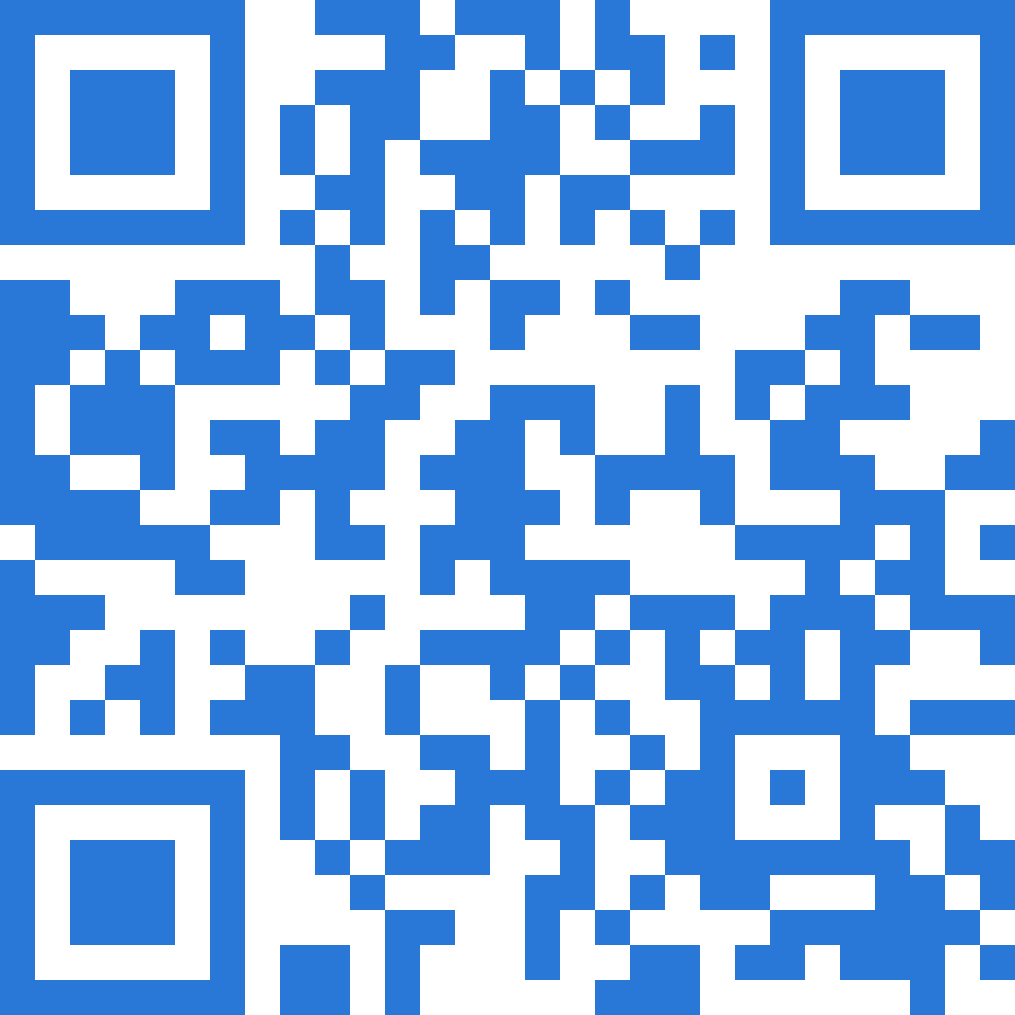
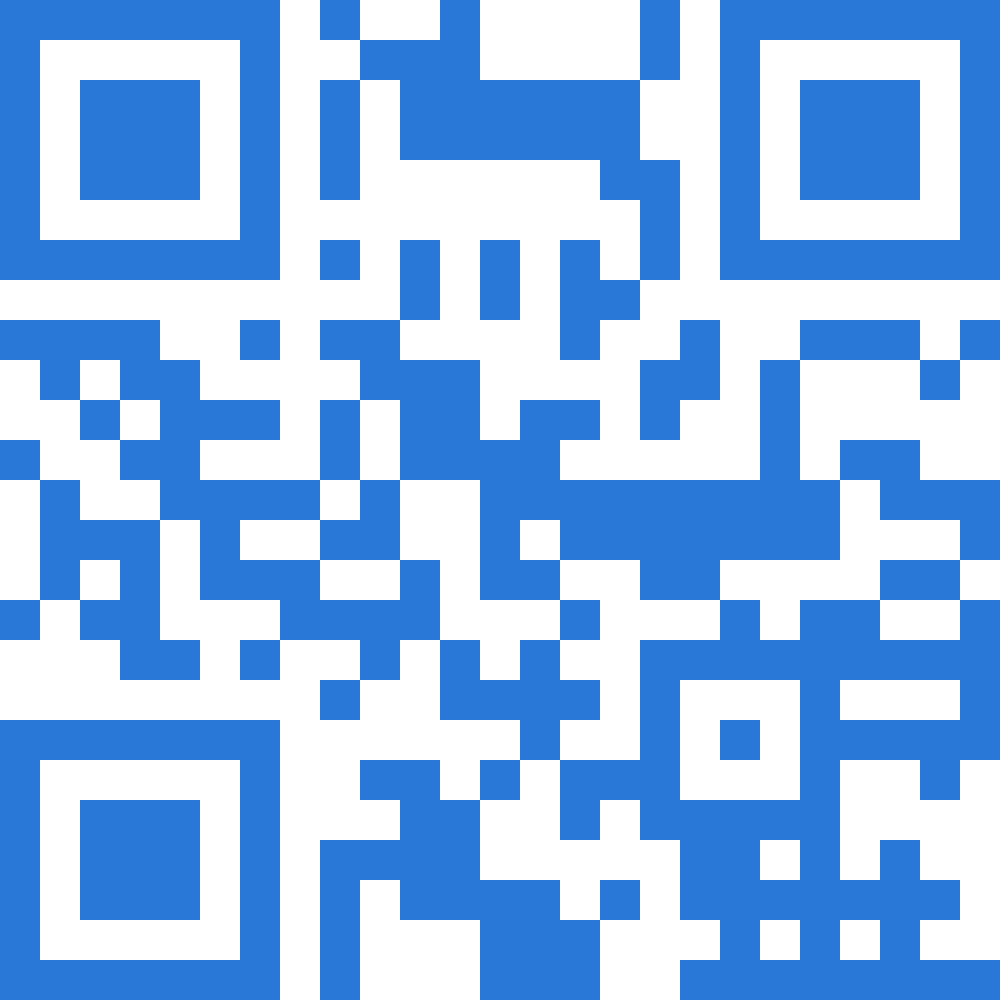
change domain name

diff --git a/index.html b/index.html
@@ -7,7 +7,7 @@
   <meta name="viewport" content="width=device-width, initial-scale=1.0">
   <meta name="color-scheme" content="dark light">
   <meta name="theme-color" content="#2978d7" />
-  <title>:( Burgerbar hat geschlossen</title>
+  <title>:( geschlossen</title>
 
   <style>
     @import url('./font/font.css');
@@ -70,10 +70,10 @@
 
 <body>
   <span class="smiley">:(</span>
-  <p class="duration">Die Burgerbar hat seit <span id="date"></span> geschlossen.</p>
+  <p class="duration">Die Burgerbar ist seit <span id="date"></span> geschlossen.</p>
 
   <div class="qr">
-    <a href="https://hatdieburgerbargeoeff.net"><img src="./qr.png" alt="QR Code" /></a>
+    <a href="https://istdieburgerbargeoeff.net"><img src="./qr.png" alt="QR Code" /></a>
     <p>Teile diese Seite mit deinen Kommilitonen, um auf dem neuesten Stand zu bleiben</p>
   </div>
 </body>
